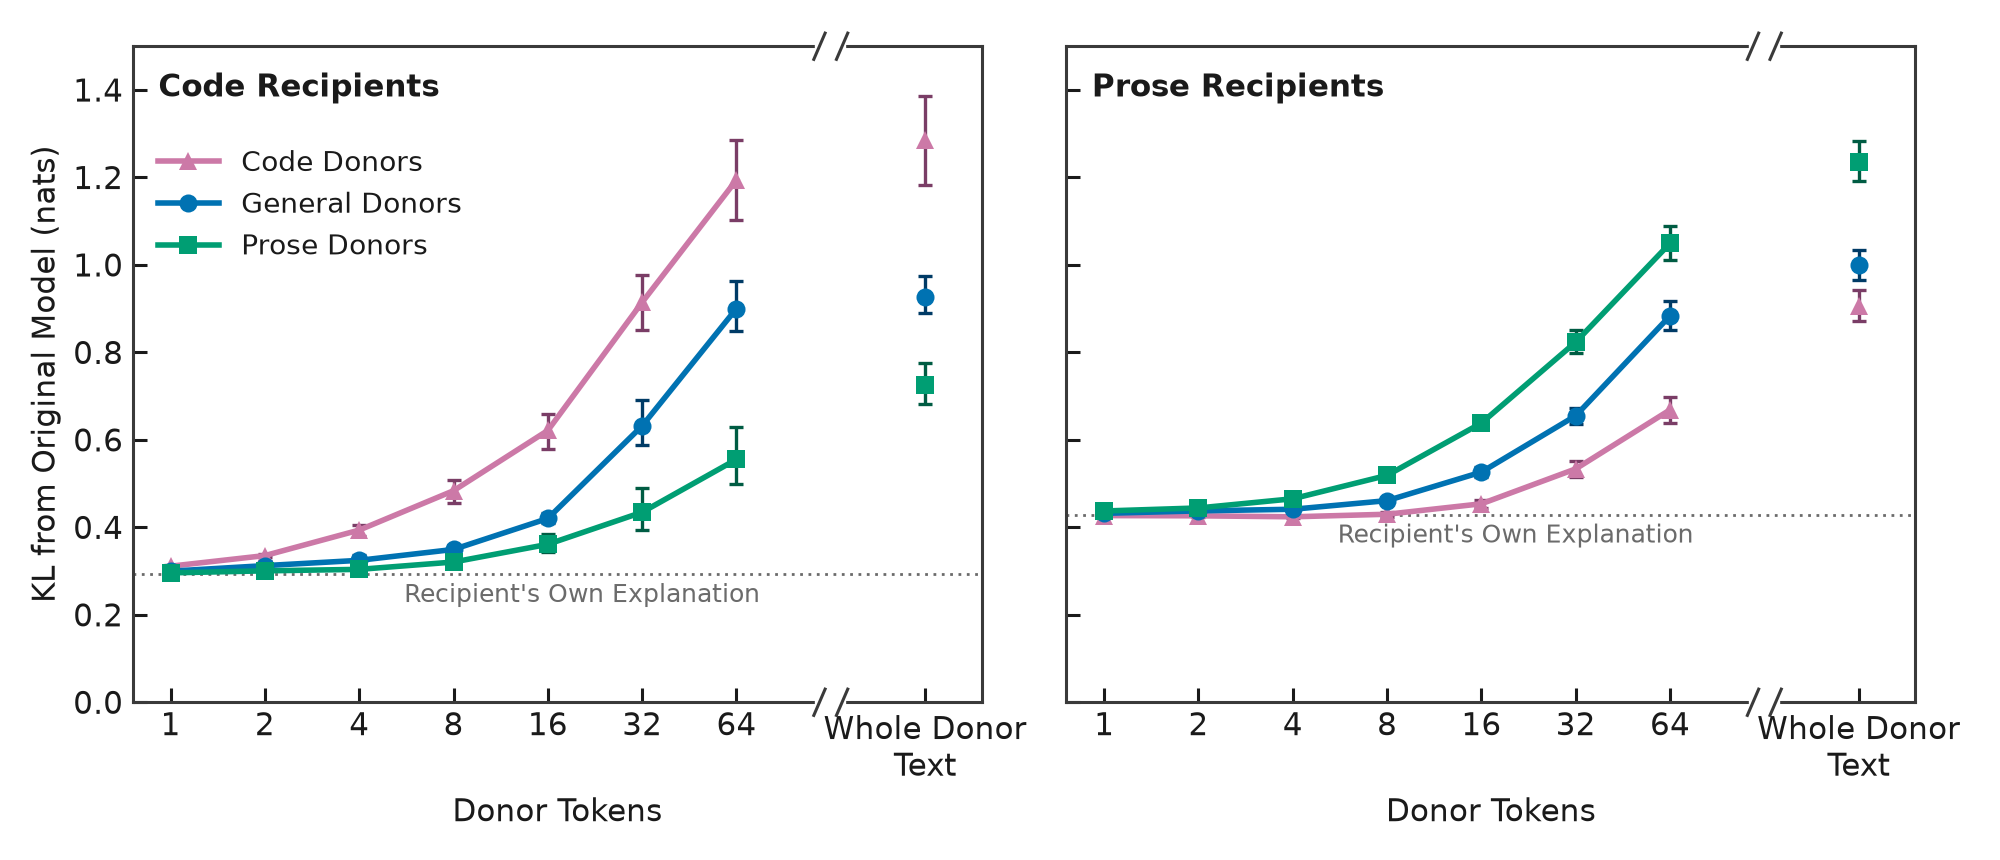
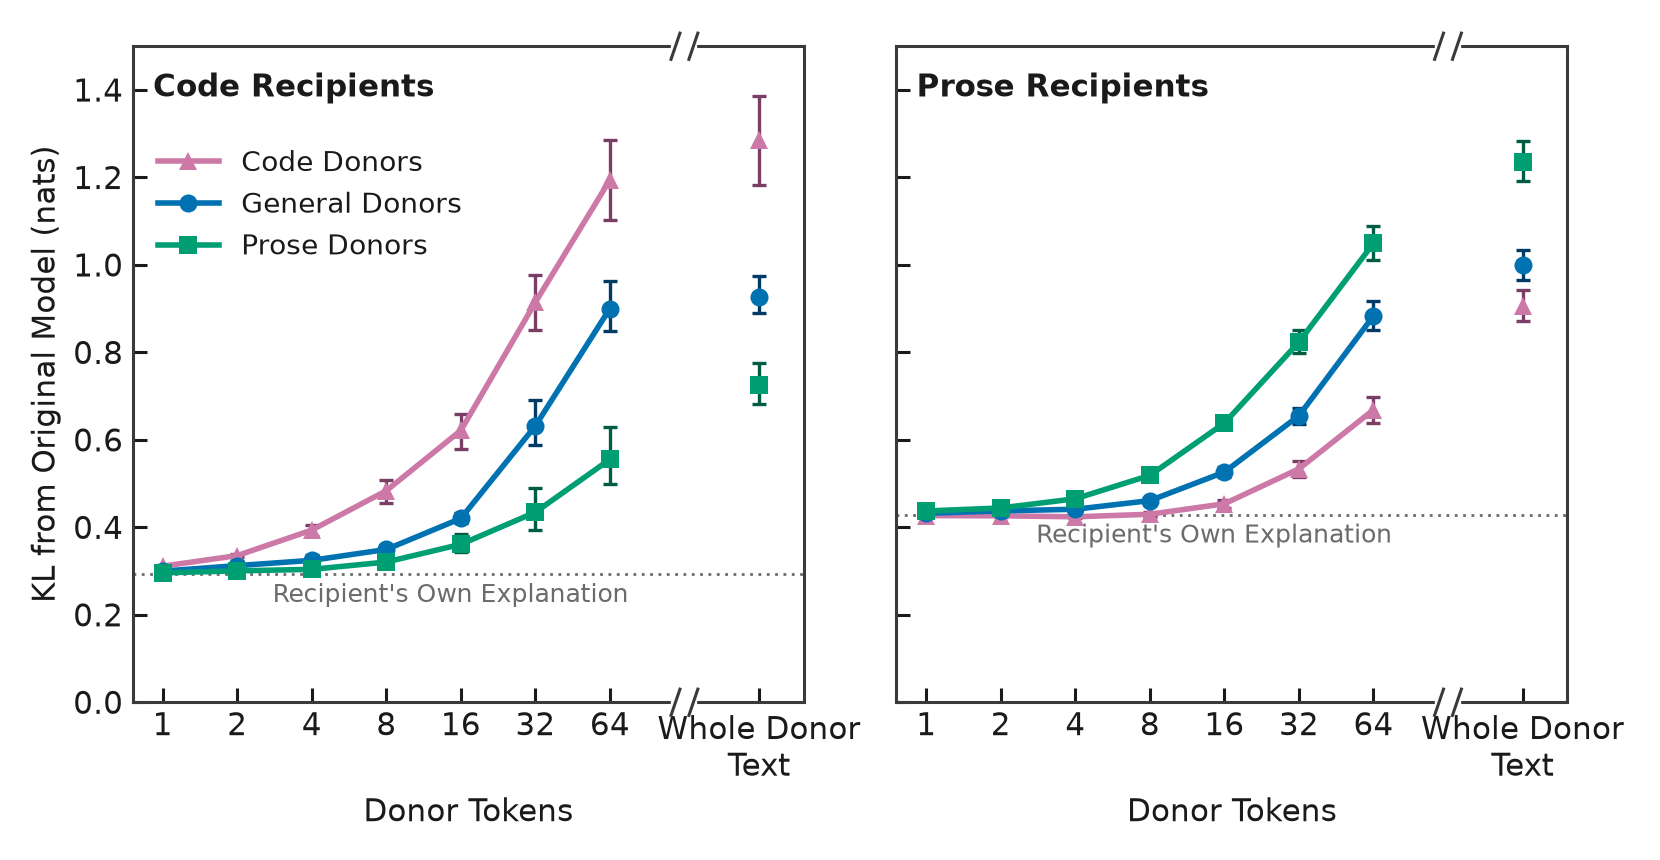
Narrower similar-donors figure for the post; remove VERIFY.md

diff --git a/vpd_audit/figures_post.py b/vpd_audit/figures_post.py
@@ -54,6 +54,9 @@ RC_CODE_EDIT = {**RC, "hatch.linewidth": 0.8}
 TOKENS: list[int] = [1, 2, 4, 8, 16, 32, 64]
 LATER_TOKENS: tuple[int, ...] = ()  # none: the post draws every point filled (2 and 4 tokens were measured later, the same way on the same donor draws)
 X_BREAK, X_WHOLE = 7.0, 8.0
+# The post's copy of the similar-donors figure is narrower than the original design (10 inches), so that, scaled to the post's
+# column width, its text and markers appear at about the same size as in the other figures.
+SIMILAR_DONORS_WIDTH = 8.3
 # The paper's own adversary after 20 PGD steps: KL 0.8280 to the target model, on the authors' batch of 128 evaluation sequences of length
 # 512 (the paper's PGD table).
 ADVERSARY_20 = 0.8280
@@ -468,13 +471,14 @@ class Panel:
     lines: list[Line]
 
 
-def draw_similar_donors(panels: list[Panel], tokens: list[int], path: Path) -> Path:
-    """The similar-donors figure: code recipients and prose recipients side by side, three kinds of donors each."""
+def draw_similar_donors(panels: list[Panel], tokens: list[int], path: Path, *, width: float = 10.0) -> Path:
+    """The similar-donors figure: code recipients and prose recipients side by side, three kinds of donors each. `width` is the
+    figure's width in inches; the default is the original design's, which the pixel test redraws."""
     plt = _plt()
     with plt.rc_context(RC):
         xs = list(np.log2(tokens)) + [X_WHOLE]
         n = len(tokens)
-        fig, axes = plt.subplots(1, 2, figsize=(10.0, 4.3), dpi=200, sharey=True)
+        fig, axes = plt.subplots(1, 2, figsize=(width, 4.3), dpi=200, sharey=True)
         for ax, pnl in zip(axes, panels):
             ax.axhline(pnl.base, color=MUTED, linewidth=1.0, linestyle=(0, (1, 2)), zorder=1)
             ax.text(6.25, pnl.base - 0.02, "Recipient's Own Explanation", color=MUTED, fontsize=9,
@@ -955,7 +959,7 @@ def similar_donors_figure(inp: Inputs, out_dir: Path) -> dict[str, Any]:
                 rows.append({"recipients": ttl, "donors": label, "donor_tokens": "whole donor text" if x == 512 else x, "divergence": y[i], "lo": lo[i], "hi": hi[i], "rise": sub.loc[x, "rise"],
                              "rise_lo": sub.loc[x, "rise_lo"], "rise_hi": sub.loc[x, "rise_hi"], "own_explanation": b, "level": "95 percent", "marker": "open" if x in LATER_TOKENS else "filled"})
         panels.append(Panel(ttl, tcol, b, lines))
-    path = draw_similar_donors(panels, tokens, Path(out_dir) / f"{OUT_NAMES['similar_donors']}.png")
+    path = draw_similar_donors(panels, tokens, Path(out_dir) / f"{OUT_NAMES['similar_donors']}.png", width=SIMILAR_DONORS_WIDTH)
     pd.DataFrame(rows).to_csv(path.with_suffix(".csv"), index=False, lineterminator="\n")
     return {"png": path, "rows": len(rows), "own_explanations": own}
 

diff --git a/README.md b/README.md
@@ -56,7 +56,7 @@ The decomposition, its target model, and a second decomposition trained without 
 | 3. Label-only tables | the label caches (CPU) | the label-only commands (`vpd-audit --help`) | `results/grid/pre_reads/` |
 | 4. The measurements | a GPU and the model files | `modal run vpd_audit/modal_app.py::grid --run main --tiers "1,2" [--subset <name>]` | `results/grid/<run>[_sN]/tier<t>/` |
 
-`--frozen <commit>` (`--freeze` for `analyze-s11` and `analyze-s12`, which also accept an earlier commit the current one descends from) must name the current commit, and the working tree must be clean; the analyses refuse to read results of the paper's model otherwise. Each analysis module was committed before the measurements it reads were analysed, and, with one exception stated in the report (section 7, item 10), before they existed. This repository's history was condensed for publication. It shows that the committed code reproduces every committed number, but not, by itself, the order in which the code and the measurements were written (`VERIFY.md`). A level-1 run on a laptop takes minutes; the bootstrap analyses (10,000 resamples) can take up to about an hour.
+`--frozen <commit>` (`--freeze` for `analyze-s11` and `analyze-s12`, which also accept an earlier commit the current one descends from) must name the current commit, and the working tree must be clean; the analyses refuse to read results of the paper's model otherwise. Each analysis module was committed before the measurements it reads were analysed, and, with one exception stated in the report (section 7, item 10), before they existed. This repository's history was condensed for publication. It shows that the committed code reproduces every committed number, but not, by itself, the order in which the code and the measurements were written. A level-1 run on a laptop takes minutes; the bootstrap analyses (10,000 resamples) can take up to about an hour.
 
 **Cost of re-measuring.** One pass over the 1,024 recipient texts takes about 8 seconds on an A100. The main measurement grid is about 7,000 such passes, roughly \$16 at \$2.10 to \$2.50 per A100-hour; all measurements in the repository together come to roughly \$40.
 
